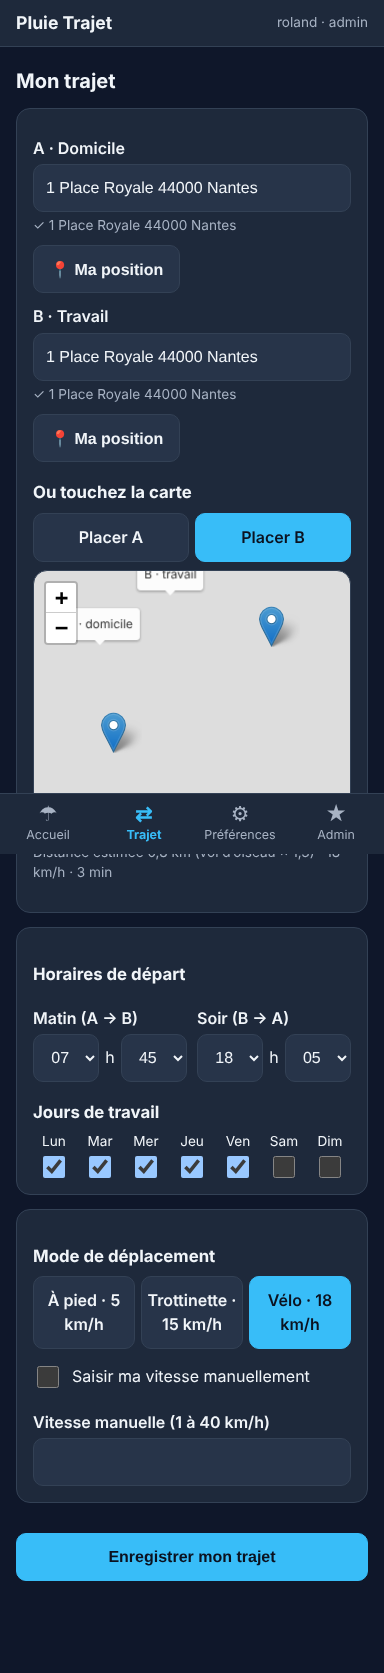
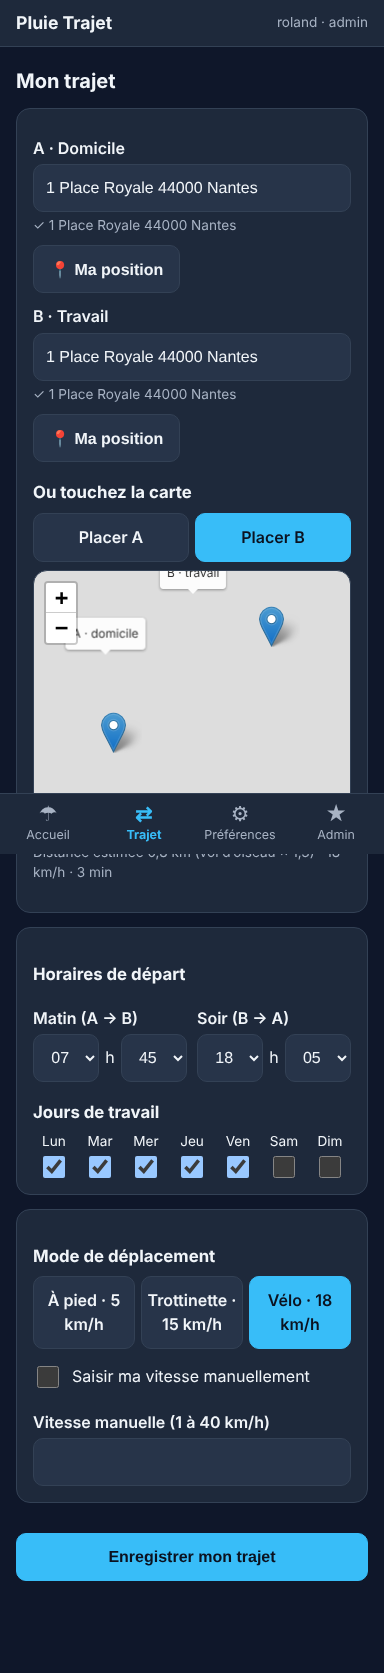
Cahier de recette : décision de Roland sur ANO-01
Claude-Session: https://claude.ai/code/session_01LxcTM3yKJSypCYi11mnSuz

Changed region(s): [[0.1875, 0.3419, 0.5938, 0.4041]]

diff --git a/docs/cahier-de-recette.md b/docs/cahier-de-recette.md
@@ -107,7 +107,7 @@ Gravité : Majeure (à corriger avant mise en service) · Mineure (à corriger, 
 
 | ID | Gravité | Description et reproduction | Correction proposée | Pour |
 | --- | --- | --- | --- | --- |
-| ANO-01 | Majeure | Admin → Paramètres : vider un champ numérique (ex. « Cumul indispensable » ou « Seuil conseillée ») puis Enregistrer. L'app affiche « Paramètres enregistrés » et stocke 0. Conséquence : seuil « conseillée » à 0 % = vêtements de pluie conseillés tous les jours ; cumul à 0 mm = « indispensable » à la moindre goutte. Cause : `Number('')` vaut 0 dans `validateSettings`. | Refuser une chaîne vide (« valeur obligatoire ») et ajouter le cas aux tests unitaires. | Dev_A |
+| ANO-01 | Majeure | Admin → Paramètres : vider un champ numérique (ex. « Cumul indispensable » ou « Seuil conseillée ») puis Enregistrer. L'app affiche « Paramètres enregistrés » et stocke 0. Conséquence : seuil « conseillée » à 0 % = vêtements de pluie conseillés tous les jours ; cumul à 0 mm = « indispensable » à la moindre goutte. Cause : `Number('')` vaut 0 dans `validateSettings`. | Décision de Roland (27/11/2026) : aucun champ vide accepté ; un champ vidé reprend la valeur par défaut de la SDB (ex. 0,5 mm, 30 %), affichée à l'admin avant enregistrement. Ajouter le cas aux tests unitaires. | Dev_A |
 | ANO-03 | Majeure | Une nouvelle version publiée n'arrive pas sur le téléphone si `VERSION` n'est pas modifiée à la main dans `sw.js` (cache « d'abord » sur tous les fichiers). Vérifié : après 3 rechargements, l'ancien écran reste affiché. Les corrections de cette recette risquent donc de ne jamais être livrées. | Dériver le nom du cache du commit au moment du déploiement (étape du workflow), ou servir `index.html` et les scripts « réseau d'abord, cache en secours » ; ajouter un test fonctionnel de mise à jour. | Dev_A |
 | ANO-02 | Majeure (limite d'architecture) | Les droits admin ne sont contrôlés que dans l'application : quelqu'un qui a le téléphone déverrouillé et sait utiliser les outils du navigateur peut se donner le profil admin. Inhérent au choix « sans serveur » validé en étape 1. | Pas de correction technique raisonnable sans serveur. Proposer d'accepter ce risque et de l'écrire dans la SDB (P1). | manager_A |
 | ANO-04 | Mineure | Hors ligne, une prévision d'un autre jour affiche « Mis à jour à 18:00 » sans date. | Afficher « Mis à jour le JJ/MM à HH:MM » quand ce n'est pas aujourd'hui. | Dev_A |
@@ -159,3 +159,4 @@ Préalable : régler GitHub → Settings → Pages → Source : GitHub Actions, 
 | Version | Date | Auteur | Changement |
 | --- | --- | --- | --- |
 | v1.0 | 26/11/2026 | Rec_A | Première recette sur `main` (commit 2a154c6) |
+| v1.0.1 | 27/11/2026 | Rec_A | ANO-01 : correction décidée par Roland (valeur par défaut de la SDB) |
